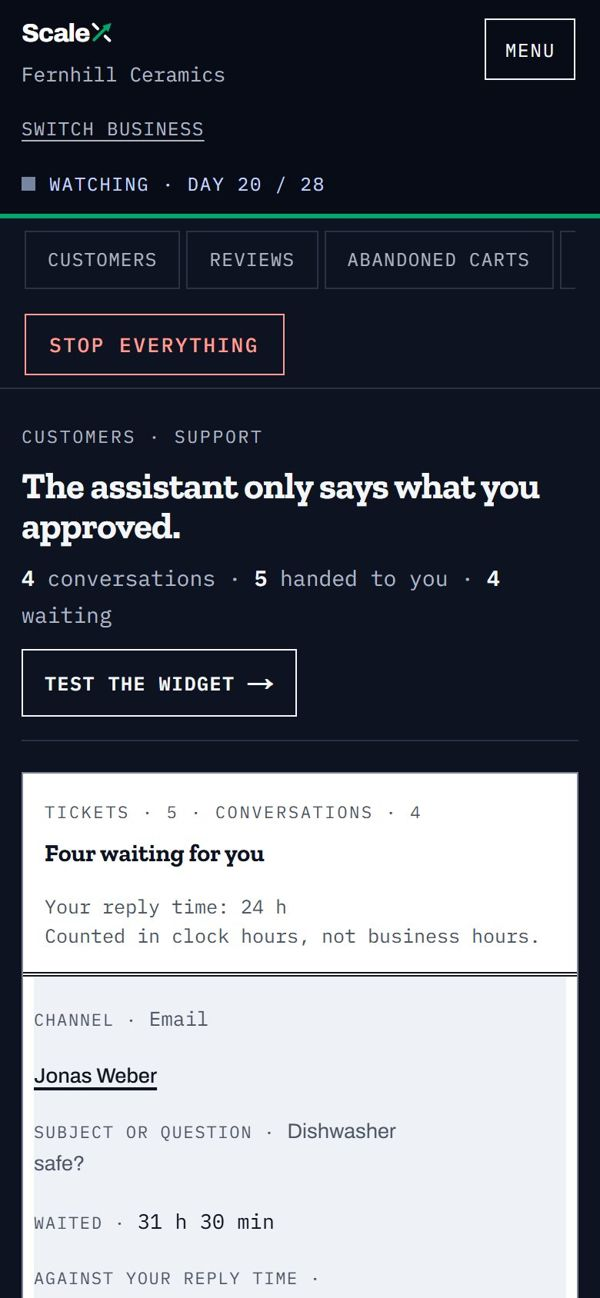
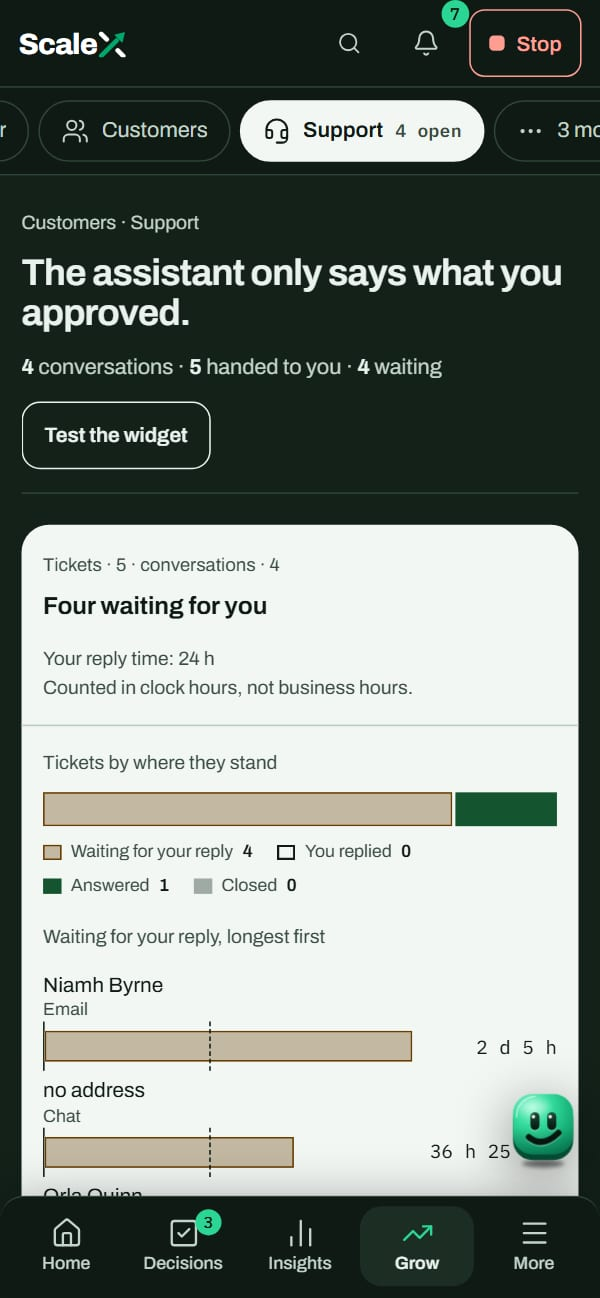
Lex's guide says where Customers really sits; the sign-up reel shows the app as it is
The guide behind Lex's answers placed Customers, Reviews, Abandoned carts,
Pipeline and Support under the business's name. They are under Grow. A test
now holds every screen's place in the guide to the menu's own, and three
smaller claims were checked against the screens' words: how a goal is set,
where the least to keep in the account is answered, and the three roles
(owner, manager, viewer).

The eleven screens in the sign-up page's phone were captures of the app from
before the third round. They are retaken from the demo shop at the same size,
in the same order, under the same names.

diff --git a/lib/assistant/guide.ts b/lib/assistant/guide.ts
@@ -91,7 +91,9 @@ export const GUIDE: readonly GuideScreen[] = [
     name: "Goals",
     place: "Insights",
     what: "Your goals and whether each is on its path.",
-    how: ["To set a goal: open Goals and add a target with its figure and its date."],
+    how: [
+      "To set a goal: open Goals and press Set a goal (or Set a new goal), then give its target.",
+    ],
   },
   {
     route: "/cash",
@@ -101,7 +103,7 @@ export const GUIDE: readonly GuideScreen[] = [
     what: "A forecast of cash week by week from your bank statement and what is known to come in and go out: the lowest point ahead and any week that is tight.",
     how: [
       "To bring it up to date: import a newer bank statement on Connections, under Your own files.",
-      "To set the buffer you want to keep: change it on Cash flow; a week under it is marked tight.",
+      "To set the least you want to keep in the account: Cash flow has a link to that question when none is stated; a week under that line is marked tight.",
     ],
   },
   {
@@ -194,7 +196,7 @@ export const GUIDE: readonly GuideScreen[] = [
     route: "/customers",
     nav: "customers",
     name: "Customers",
-    place: "Customers",
+    place: "Grow",
     what: "Your customers in three parts: the list with each one's record, segments with email campaigns, and bringing customers in from a file.",
     how: [
       "To add customers: Customers, the third part, and upload or paste your list.",
@@ -205,28 +207,28 @@ export const GUIDE: readonly GuideScreen[] = [
     route: "/reviews",
     nav: "reviews",
     name: "Reviews",
-    place: "Customers",
+    place: "Grow",
     what: "Your reviews, with a reply drafted for each that you approve before it is posted.",
   },
   {
     route: "/carts",
     nav: "carts",
     name: "Abandoned carts",
-    place: "Customers",
+    place: "Grow",
     what: "Baskets that were filled and not paid for, and what winning them back is worth.",
   },
   {
     route: "/pipeline",
     nav: "pipeline",
     name: "Pipeline",
-    place: "Customers",
+    place: "Grow",
     what: "Deals with other businesses and their follow-ups. It is for a business that sells to businesses.",
   },
   {
     route: "/support",
     nav: "support",
     name: "Support",
-    place: "Customers",
+    place: "Grow",
     what: "Customers' questions from chat, email and phone, with answers drafted or given inside the rules you set. Support never carries anything out.",
   },
   {
@@ -293,7 +295,7 @@ export const GUIDE: readonly GuideScreen[] = [
     nav: "team_access",
     name: "Team access",
     place: "Your business (the business's name at the top)",
-    what: "Who else may use this business in ScaleX, and as what: owner, manager or member.",
+    what: "Who else may use this business in ScaleX, and as what: owner, manager or viewer.",
     how: ["To invite someone: Team access, enter their email and their role; they get a link."],
   },
   {
@@ -358,7 +360,7 @@ export const GUIDE: readonly GuideScreen[] = [
 
 /** Things that are not one screen. */
 const EVERYWHERE: readonly string[] = [
-  "The four places at the top of every screen are Home, Decisions, Insights and Grow. Customers and the business's own screens (Fact sheet, Connections, settings) open from the business's name at the top left.",
+  "The four places at the top of every screen are Home, Decisions, Insights and Grow. Customers, Reviews, Abandoned carts, Pipeline and Support are under Grow. The business's own screens (Fact sheet, Connections, the statement, History and the settings) open from the business's name at the top left.",
   "Search, at the top (Ctrl K), finds any screen by name.",
   "Stop everything, at the top right of every screen, halts at once whatever ScaleX is doing or about to do.",
   "Lex only ever drafts: a change to a setting or a fact is a card you confirm, and anything that acts outside ScaleX is a proposal you approve.",

diff --git a/lib/assistant/guide.test.ts b/lib/assistant/guide.test.ts
@@ -5,6 +5,7 @@
 import { existsSync, readFileSync } from "node:fs";
 import { join } from "node:path";
 import { describe, expect, it } from "vitest";
+import { placeFor } from "../../components/nav/AppFrame";
 import { GUIDE, guideText, linksIn, screenFor, withoutCitations } from "./guide";
 
 const ROOT = process.cwd();
@@ -26,6 +27,28 @@ describe("the guide covers the app", () => {
       expect(existsSync(page), `${s.name} → ${s.route}`).toBe(true);
       if (s.nav !== null) expect(english.nav.item[s.nav], s.route).toBe(s.name);
     }
+  });
+
+  it("says where each screen sits as the menu has it", () => {
+    // Lex told people Customers opened from the business's name; it is under Grow.
+    const WORDS: Record<string, string> = {
+      home: "Home",
+      decisions: "Decisions",
+      insights: "Insights",
+      grow: "Grow",
+      business: "Your business",
+    };
+    for (const s of GUIDE) {
+      if (s.nav === null) continue;
+      const place = placeFor(s.route);
+      expect(place, s.route).not.toBeNull();
+      expect(s.place.startsWith(WORDS[place as string] as string), `${s.name}: ${s.place}`).toBe(
+        true,
+      );
+    }
+    expect(guideText()).toContain(
+      "Customers, Reviews, Abandoned carts, Pipeline and Support are under Grow",
+    );
   });
 
   it("lists no screen twice, and says what each is for", () => {
